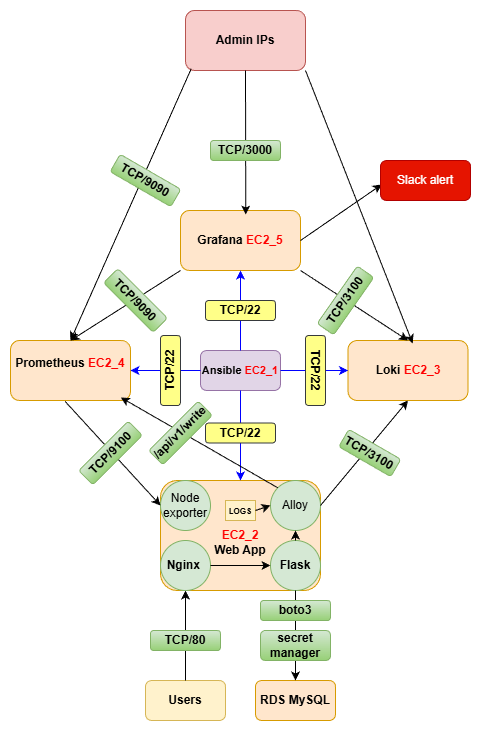
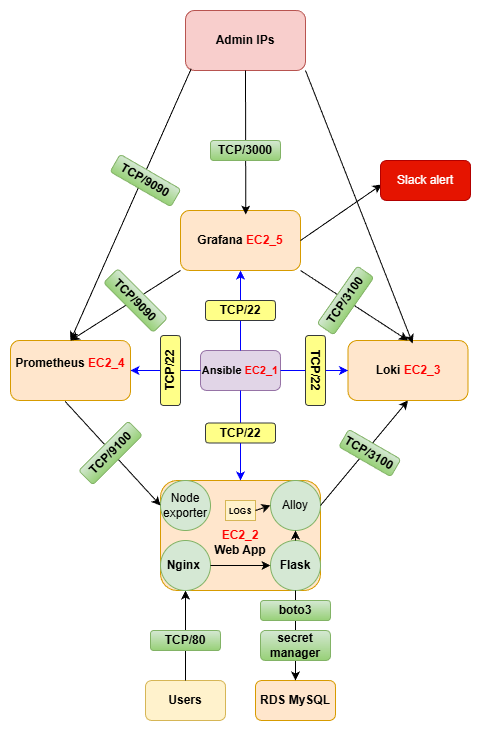
All metrics scraping is now handled directly by Prometheus. Grafana Alloy remains responsible for log collection only

Changed region(s): [[0.3119, 0.5417, 0.4678, 0.632], [0.499, 0.632, 0.5613, 0.6621], [0.2495, 0.5417, 0.3119, 0.5718]]

diff --git a/ReadMe.md b/ReadMe.md
@@ -9,16 +9,17 @@ stack using Terraform and Ansible.
 
 Metrics and logs are collected through a combination of Prometheus exporters,
 application endpoints, and Grafana Alloy pipelines. Prometheus receives metrics
-via scraping and push-based integrations, while logs are collected and shipped
+via direct scraping of exporters and application endpoints, while logs are collected and shipped
 to Loki by Grafana Alloy. Grafana acts as the unified visualization and alerting layer.
 
 ##  Application & Monitoring Flow
 
 The diagram below illustrates the full observability flow:
-- Grafana Alloy runs on the application EC2 and scrapes application and node metrics locally (Flask + node_exporter)
-- Grafana Alloy pushes metrics to Prometheus using remote_write
-- Grafana Alloy collects application logs and pushes them to Loki
-- Prometheus acts as a remote_write receiver and stores metrics
+- Prometheus scrapes system and application metrics directly from the Application EC2
+  (Node Exporter on port 9100 and Flask /metrics endpoint on port 5000)
+- Grafana Alloy runs on the Application EC2 and collects application and system logs
+- Grafana Alloy pushes logs to Loki
+- Grafana queries Prometheus for metrics and Loki for logs
 - Grafana queries Prometheus for metrics and Loki for logs
 
 ![Architecture Flow](diagrams/architecture-flow.png)
@@ -37,7 +38,7 @@ The infrastructure consists of 5 EC2 instances:
 
 3. Prometheus EC2
    - Prometheus server (TCP 9090)
-   - Receives metrics via remote_write from Grafana Alloy
+   - Scrapes metrics from exporters and application endpoints
 
 4. Loki EC2
    - Loki log database (TCP 3100)
@@ -65,8 +66,9 @@ NETWORK & ACCESS FLOW
   -> Prometheus EC2
 
 - Prometheus EC2
-  -> TCP 9100 (scrape)
-  -> Application EC2 (Node Exporter)
+  -> TCP 9100 (scrape Node Exporter)
+  -> TCP 5000 (scrape Flask /metrics)
+  -> Application EC2
 
 - Grafana Alloy (on Application EC2)
   -> TCP 3100 (push)
@@ -82,16 +84,12 @@ METRICS FLOW (PROMETHEUS)
 2. Flask application exposes:
    - /metrics endpoint
 
-3. Grafana Alloy runs on the Application EC2:
-   - Scrapes Node Exporter metrics locally
+3. Prometheus EC2:
+   - Scrapes Node Exporter metrics
    - Scrapes Flask /metrics endpoint
-   - Pushes metrics to Prometheus via remote_write
+   - Stores metrics
 
-4. Prometheus EC2:
-   - Acts as a remote_write receiver
-   - Stores time-series metrics
-
-5. Grafana:
+4. Grafana:
    - Queries Prometheus
    - Displays dashboards and alerts
 
@@ -120,7 +118,7 @@ LOGGING FLOW (LOKI)
    - Nginx (reverse proxy)
    - Flask backend application (/metrics exposed)
    - Node Exporter (system metrics)
-   - Grafana Alloy (logs & optional metrics)
+   - Grafana Alloy (log collection and shipping)
 
 REPOSITORY STRUCTURE
 --------------------
